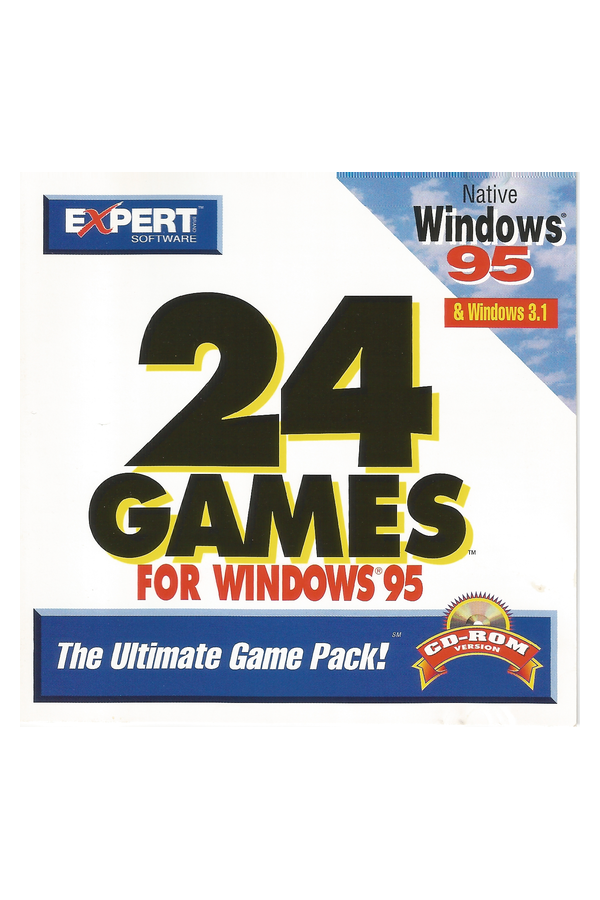
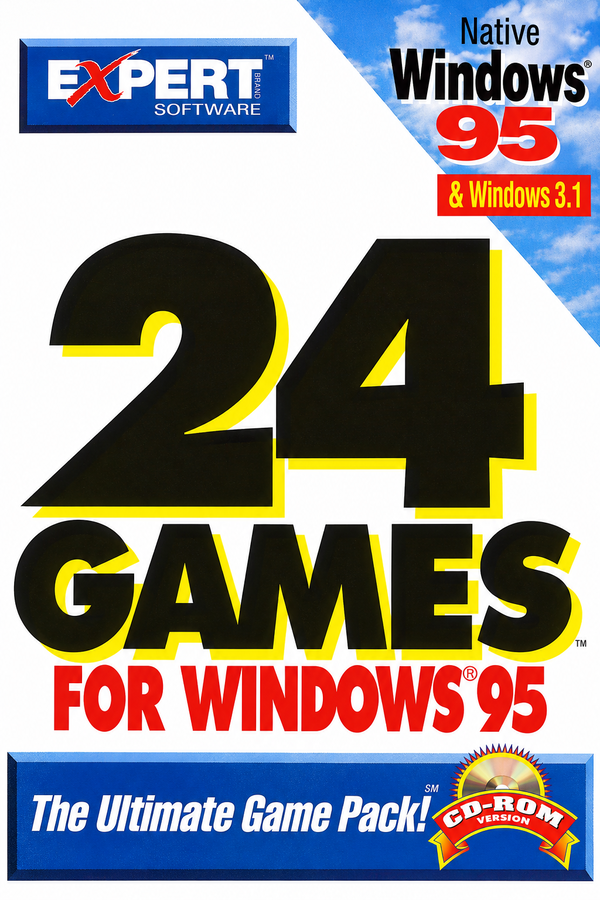
Recompose 24 Games box art to fill the portrait card

diff --git a/bin/apply-library-artwork.py b/bin/apply-library-artwork.py
@@ -43,7 +43,11 @@ if __name__=='__main__':
         original=fitted/(name+'-original.png')
         if not original.exists():shutil.copy2(source,original)
         output=fitted/(name+'-portrait.png')
-        subprocess.run(['magick',str(original),'-filter','point' if name=='moon-mission' else 'Lanczos','-resize','560x840','-background',color,'-gravity','center','-extent','600x900',str(output)],check=True)
+        revised=fitted/'24-games-recomposed-source.png'
+        if name=='24-games' and revised.exists():
+            subprocess.run(['magick',str(revised),'-resize','600x900!',str(output)],check=True)
+        else:
+            subprocess.run(['magick',str(original),'-filter','point' if name=='moon-mission' else 'Lanczos','-resize','560x840','-background',color,'-gravity','center','-extent','600x900',str(output)],check=True)
         apply(appid,'portrait',output)
         print('Applied fitted title-safe portrait:',name)
     print('Artwork backup:',BACKUP)

diff --git a/docs/steam-library-artwork.md b/docs/steam-library-artwork.md
@@ -42,3 +42,12 @@ restore override. Other machines without that policy are unchanged.
 Artwork work did not request any encrypted-home unlock. Steam/Game Mode
 and Sunshine were not restarted. Current artwork does not alter any game save,
 controller layout, application installation or encrypted desktop customization.
+
+24 Games refinement: user requested the original box elements arranged to fill
+its tall card, rather than square scan floating in white padding. Created a
+reference-based image edit: Expert at upper left, complete Windows95 triangle
+at upper right, larger24GAMES/FORWINDOWS95 center, blue Ultimate Game Pack/CDROM
+banner near bottom. Reviewed wording and full edges before applying600x900.
+This later revision is AI-recomposed from the original scan; the original scan
+and previous fitted version remain in source/history. Apply helper now uses the
+reviewed recomposed master so later setup does not restore the padded layout.
